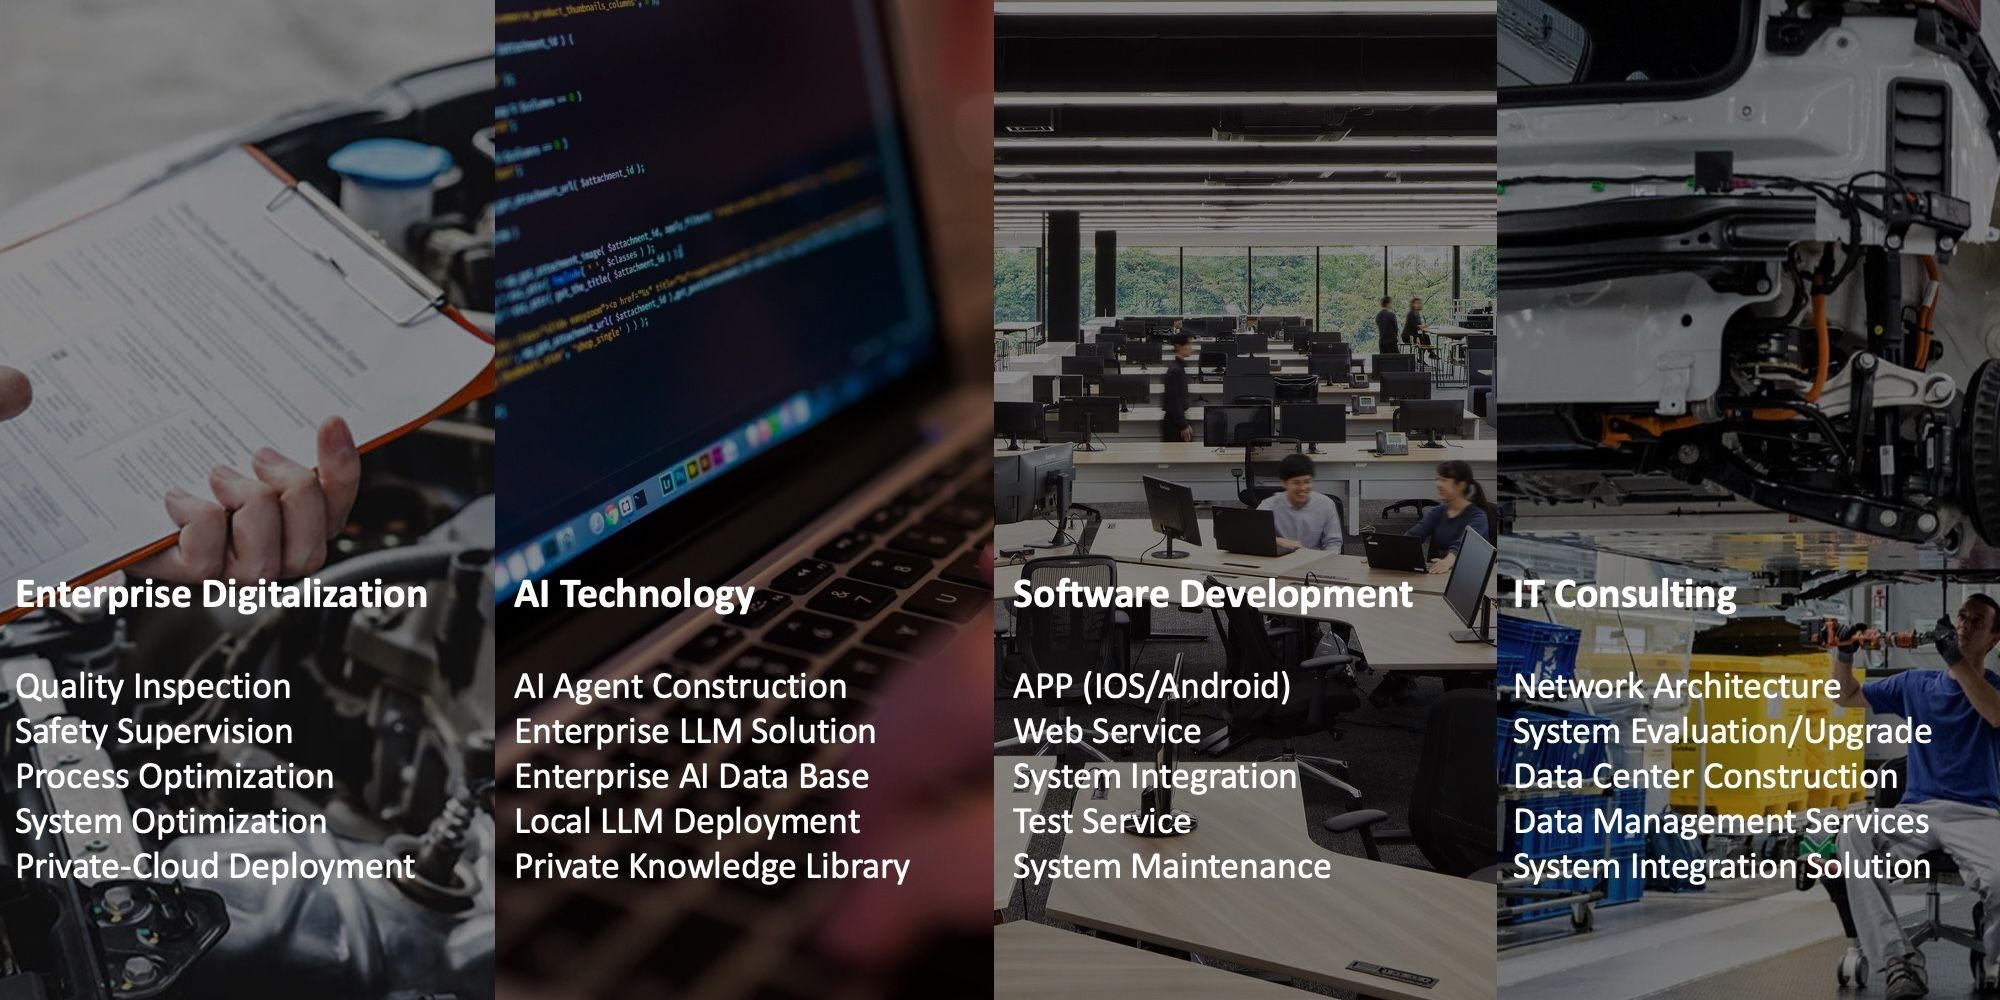
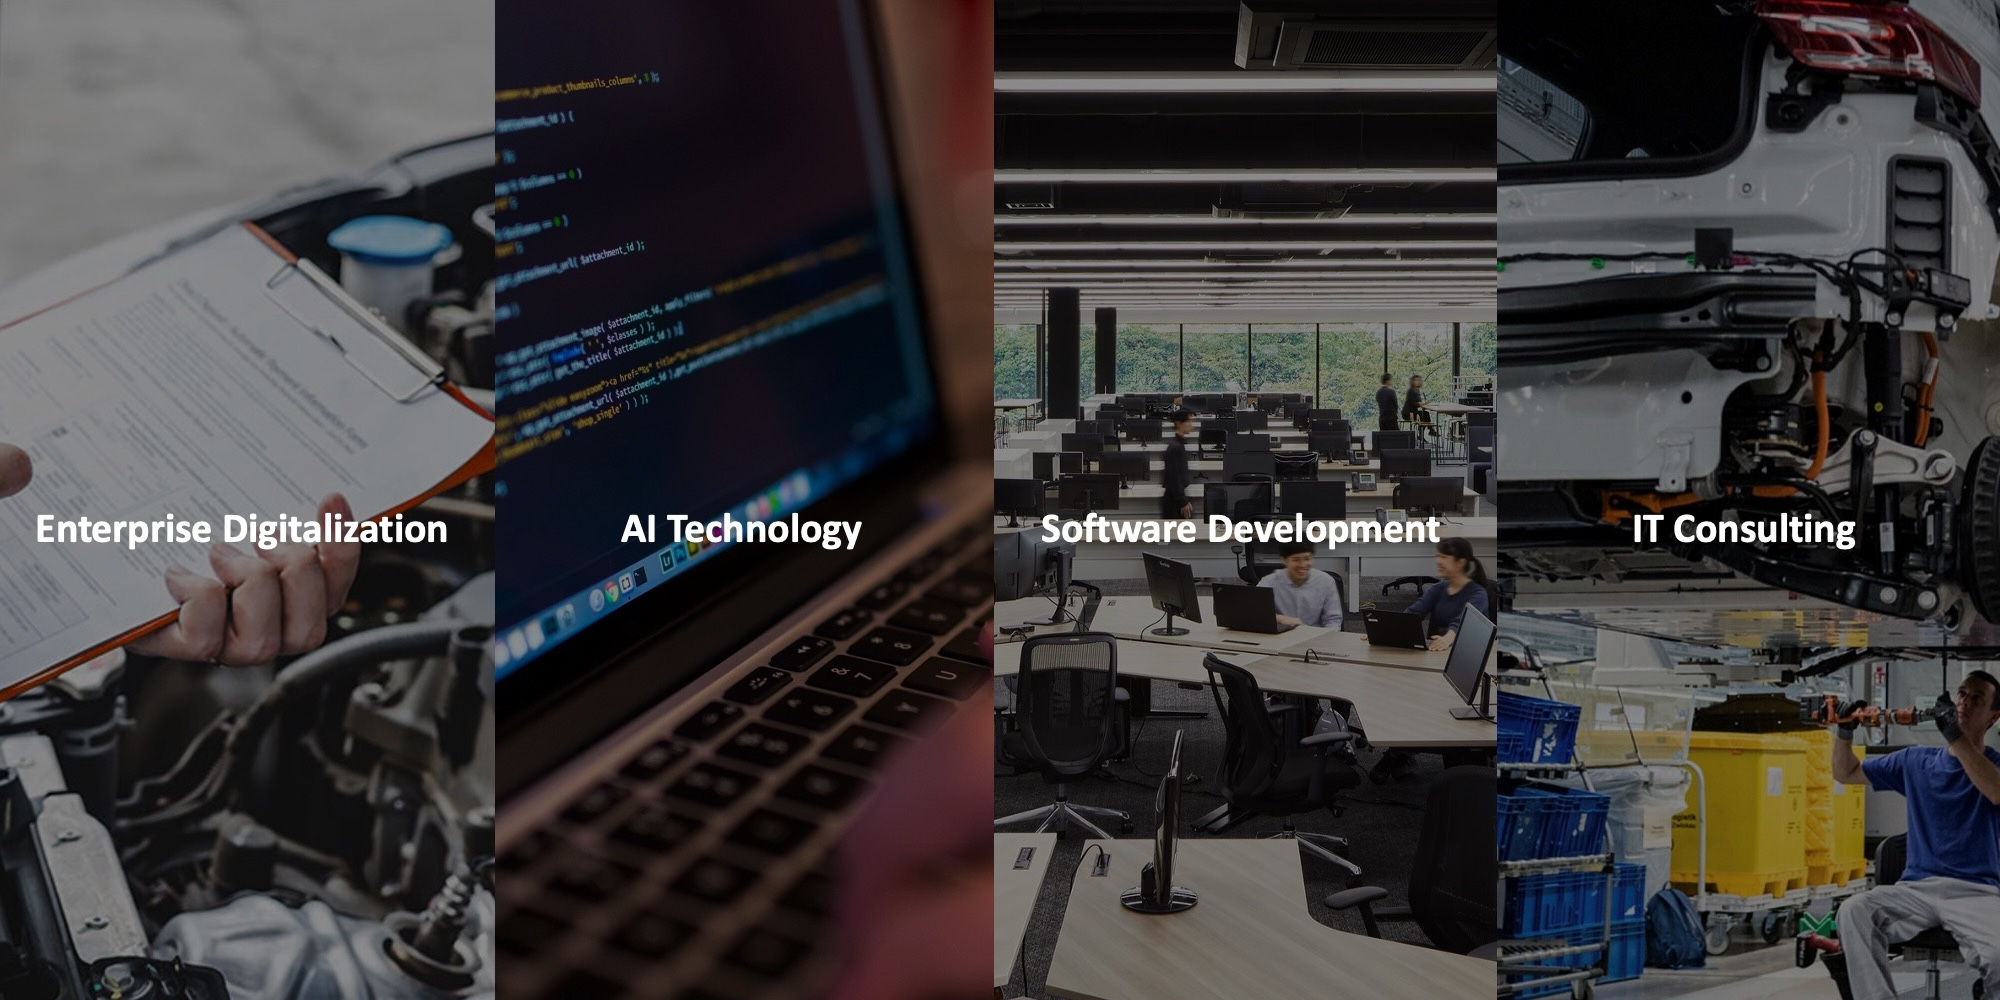
hero post

diff --git a/_posts/dynamic-routing.md b/_posts/dynamic-routing.md
@@ -1,6 +1,6 @@
 ---
-title: "What Aternas Can Provide - Professional Technical Service"
-excerpt: "Lorem ipsum dolor sit amet, consectetur adipiscing elit, sed do eiusmod tempor incididunt ut labore et dolore magna aliqua. Praesent elementum facilisis leo vel fringilla est ullamcorper eget. At imperdiet dui accumsan sit amet nulla facilities morbi tempus."
+title: "Aternas: Transforming Enterprise Technology"
+excerpt: "At Aternas, we bridge the gap between technological innovation and business excellence. Our comprehensive solutions span enterprise digitalization, cutting-edge AI implementation, custom software development, and strategic IT consulting. With deep expertise in LLM deployment, system optimization, and data management, we empower organizations to navigate their digital transformation journey with confidence. Partner with Aternas to unlock your business potential and stay ahead in today's rapidly evolving technological landscape."
 coverImage: "/assets/blog/dynamic-routing/AT.jpg"
 author:
   name:  
@@ -8,10 +8,41 @@ ogImage:
   url: "/assets/blog/dynamic-routing/AT.jpg"
 ---
 
-Lorem ipsum dolor sit amet, consectetur adipiscing elit, sed do eiusmod tempor incididunt ut labore et dolore magna aliqua. Praesent elementum facilisis leo vel fringilla est ullamcorper eget. At imperdiet dui accumsan sit amet nulla facilities morbi tempus. Praesent elementum facilisis leo vel fringilla. Congue mauris rhoncus aenean vel. Egestas sed tempus urna et pharetra pharetra massa massa ultricies.
+At Aternas, we bridge the gap between technological innovation and business excellence. Our comprehensive solutions span enterprise digitalization, cutting-edge AI implementation, custom software development, and strategic IT consulting. With deep expertise in LLM deployment, system optimization, and data management, we empower organizations to navigate their digital transformation journey with confidence. Partner with Aternas to unlock your business potential and stay ahead in today's rapidly evolving technological landscape.
 
-Venenatis cras sed felis eget velit. Consectetur libero id faucibus nisl tincidunt. Gravida in fermentum et sollicitudin ac orci phasellus egestas tellus. Volutpat consequat mauris nunc congue nisi vitae. Id aliquet risus feugiat in ante metus dictum at tempor. Sed blandit libero volutpat sed cras. Sed odio morbi quis commodo odio aenean sed adipiscing. Velit euismod in pellentesque massa placerat. Mi bibendum neque egestas congue quisque egestas diam in arcu. Nisi lacus sed viverra tellus in. Nibh cras pulvinar mattis nunc sed. Luctus accumsan tortor posuere ac ut consequat semper viverra. Fringilla ut morbi tincidunt augue interdum velit euismod.
+Aternas can provide our customers full-stack technology services, covering aspects from enterprise digital transformation, artificial intelligence solutions, and software development to IT infrastructure consulting. We specialize in enterprise-level services, including AI and large language model (LLM) business applications, as well as various system integration and optimization services.
 
-## Lorem Ipsum
+**Enterprise Digitalization**
 
-Tristique senectus et netus et malesuada fames ac turpis. Ridiculous mus mauris vitae ultricies leo integer malesuada nunc vel. In mollis nunc sed id semper. Egestas tellus rutrum tellus pellentesque. Phasellus vestibulum lorem sed risus ultricies tristique nulla. Quis blandit turpis cursus in hac habitasse platea dictumst quisque. Eros donec ac odio tempor orci dapibus ultrices. Aliquam sem et tortor consequat id porta nibh. Adipiscing elit duis tristique sollicitudin nibh sit amet commodo nulla. Diam vulputate ut pharetra sit amet. Ut tellus elementum sagittis vitae et leo. Arcu non odio euismod lacinia at quis risus sed vulputate.
+Quality Inspection
+Safety Supervision
+Process Optimization
+System Optimization
+Private-Cloud Deployment
+
+
+**AI Technology**
+
+AI Agent Construction
+Enterprise LLM Solution
+Enterprise AI Data Base
+Local LLM Deployment
+Private Knowledge Library
+
+
+**Software Development**
+
+APP (iOS/Android)
+Web Service
+System Integration
+Test Service
+System Maintenance
+
+
+**IT Consulting**
+
+Network Architecture
+System Evaluation/Upgrade
+Data Center Construction
+Data Management Services
+System Integration Solution
